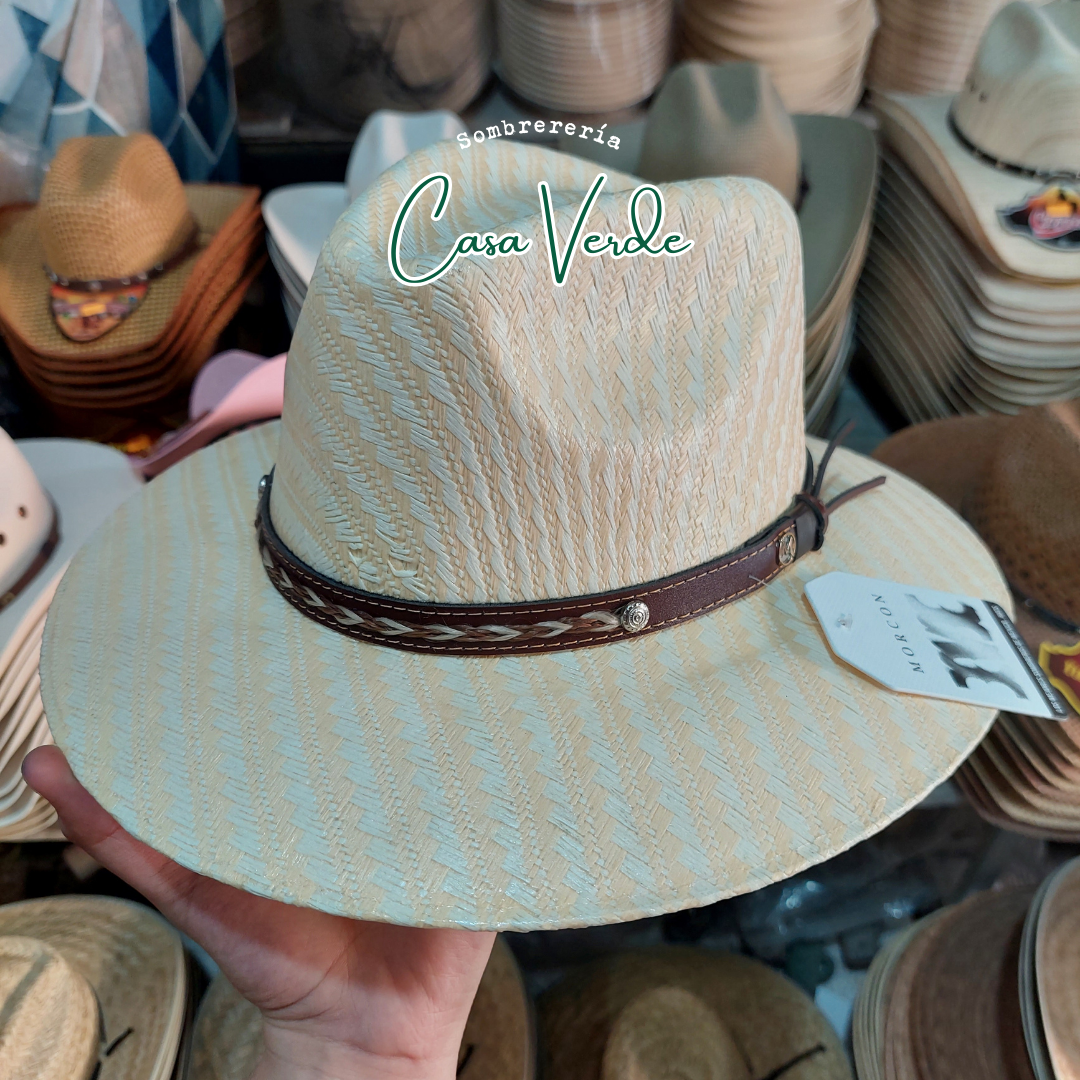
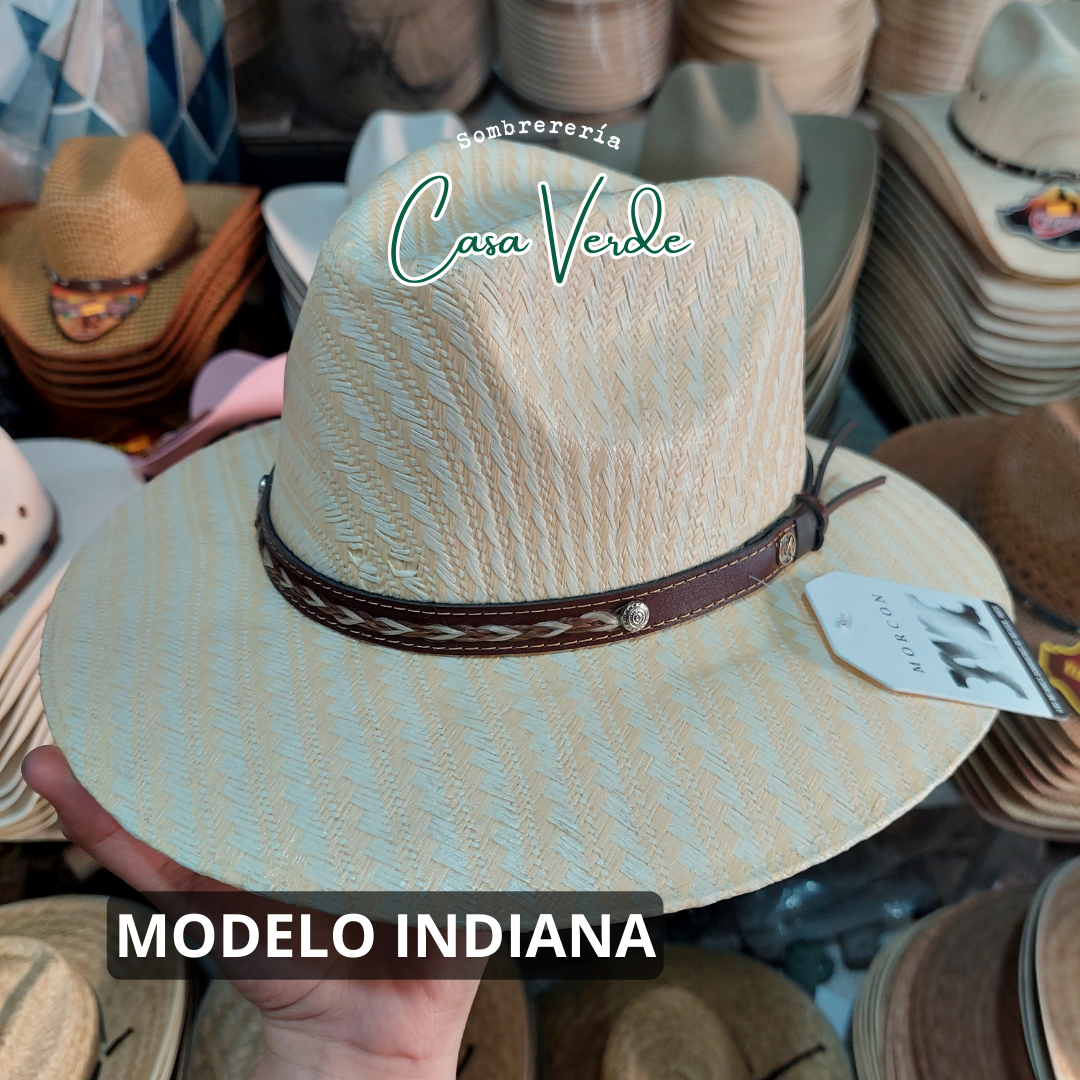
colecc

Changed region(s): [[0.0917, 0.825, 0.6111, 0.9167]]

diff --git a/src/app/pages/colecciones/colecciones.component.html b/src/app/pages/colecciones/colecciones.component.html
@@ -6,69 +6,119 @@
     <link href="https://cdn.jsdelivr.net/npm/bootstrap@5.3.3/dist/css/bootstrap.min.css" rel="stylesheet" integrity="sha384-QWTKZyjpPEjISv5WaRU9OFeRpok6YctnYmDr5pNlyT2bRjXh0JMhjY6hW+ALEwIH" crossorigin="anonymous">
   </head>
   <body><br>
-    <div class="row row-cols-1 row-cols-md-4 g-2">
+    <div class="row row-cols-1 row-cols-md-6 g-2">
       <div class="col">
         <div class="card">
           <img [src]="img1" id="img" class="card-img-top" alt="...">
-          <div class="card-body">
-            <h5 class="card-title">CHEYENNE 10.5<br>100X</h5>
+          <div>
+            <p>CHEYENNE 10.5<br>100X</p>
           </div>
         </div>
       </div>
       <div class="col">
         <div class="card">
           <img [src]="img2" id="img"class="card-img-top" alt="...">
-          <div class="card-body">
-            <h5 class="card-title">HORMA CHAMPION<br>Bangora natural</h5>
+          <div>
+            <p>HORMA CHAMPION<br>Bangora natural</p>
           </div>
         </div>
       </div>
       <div class="col">
         <div class="card">
           <img [src]="img3" id="img" class="card-img-top" alt="...">
-          <div class="card-body">
-            <h5 class="card-title">SUPER LIGHT HAT<br>Premium 10,000X</h5>
+          <div>
+            <p>SUPER LIGHT HAT<br>Premium 10,000X</p>
           </div>
         </div>
       </div>
       <div class="col">
         <div class="card">
           <img [src]="img4" id="img" class="card-img-top" alt="...">
-          <div class="card-body">
-            <h5 class="card-title">CHEYENNE<br>100X</h5>
+          <div>
+            <p>CHEYENNE<br>100X</p>
           </div>
         </div>
       </div>
       <div class="col">
         <div class="card">
           <img [src]="img5" id="img" class="card-img-top" alt="...">
-          <div class="card-body">
-            <h5 class="card-title">HORMA EL PATRÓN<br>100X</h5>
+          <div>
+            <p>HORMA EL PATRÓN<br>100X</p>
           </div>
         </div>
       </div>
       <div class="col">
         <div class="card">
           <img [src]="img6" id="img" class="card-img-top" alt="...">
-          <div class="card-body">
-            <h5 class="card-title">BANGORA<br>Bicolor</h5>
+          <div>
+            <p>BANGORA<br>Bicolor</p>
           </div>
         </div>
       </div>
       <div class="col">
         <div class="card">
           <img [src]="img7" id="img" class="card-img-top" alt="...">
-          <div class="card-body">
-            <h5 class="card-title">BANGORA 8 SEGUNDOS<br>50X</h5>
+          <div>
+            <p>8 SEGUNDOS<br>50X</p>
           </div>
         </div>
       </div>
       <div class="col">
         <div class="card">
           <img [src]="img8" id="img" class="card-img-top" alt="...">
-          <div class="card-body">
-            <h5 class="card-title">HORMA MALBOLO-0</h5>
+          <div>
+            <p>BANGORA<br>Horma Malboro-0</p>
           </div>
+        </div>
+      </div>
+      <div class="col">
+        <div class="card">
+          <img [src]="img9" id="img" class="card-img-top" alt="...">
+          <div>
+            <p>BANGORA<br>Horma Malboro Plano</p>
+          </div>
+        </div>
+      </div>
+      <div class="col">
+        <div class="card">
+          <img [src]="img10" id="img" class="card-img-top" alt="...">
+          <div>
+            <p>JOAN SEBASTIAN<br>100X</p>
+          </div>
+        </div>
+      </div>
+      <div class="col">
+        <div class="card">
+          <img [src]="img11" id="img" class="card-img-top" alt="...">
+          <div>
+            <p>JOAN SEBASTIAN<br>100X</p>
+          </div>
+        </div>
+      </div>
+      <div class="col">
+        <div class="card">
+          <img [src]="img13" id="img" class="card-img-top" alt="...">
+          <div>
+            <p>MODELO INDIANA<br>Morcon</p>
+          </div>
+        </div>
+      </div>
+      <div class="card">
+        <img [src]="img14" id="img" class="card-img-top" alt="...">
+        <div>
+          <p>MODELO INDIANA<br>Morcon</p>
+        </div>
+      </div>
+      <div class="card">
+        <img [src]="img15" id="img" class="card-img-top" alt="...">
+        <div>
+          <p>MODELO INDIANA<br>Morcon</p>
+        </div>
+      </div>
+      <div class="card">
+        <img [src]="img16" id="img" class="card-img-top" alt="...">
+        <div>
+          <p>HORMA CONEJA<br>100X</p>
         </div>
       </div>
     </div>

diff --git a/src/app/pages/colecciones/colecciones.component.ts b/src/app/pages/colecciones/colecciones.component.ts
@@ -16,4 +16,11 @@ export class ColeccionesComponent {
   img6 = 'images/coleccion/11.png'
   img7 = 'images/coleccion/18.png'
   img8 = 'images/coleccion/30.png'
+  img9 = 'images/coleccion/31.png'
+  img10 = 'images/coleccion/34.png'
+  img11 = 'images/coleccion/35.png'
+  img13 = 'images/coleccion/13.png'
+  img14 = 'images/coleccion/14.png'
+  img15 = 'images/coleccion/15.png'
+  img16 = 'images/coleccion/16.png'
 }

diff --git a/src/app/pages/colecciones/colecciones.component.css b/src/app/pages/colecciones/colecciones.component.css
@@ -8,7 +8,7 @@ img{
 }
 
 p{
-    font-size: larger;
+    font-size:medium;
     font-family: 'Times New Roman', Times, serif;
     text-align: center;
 }
